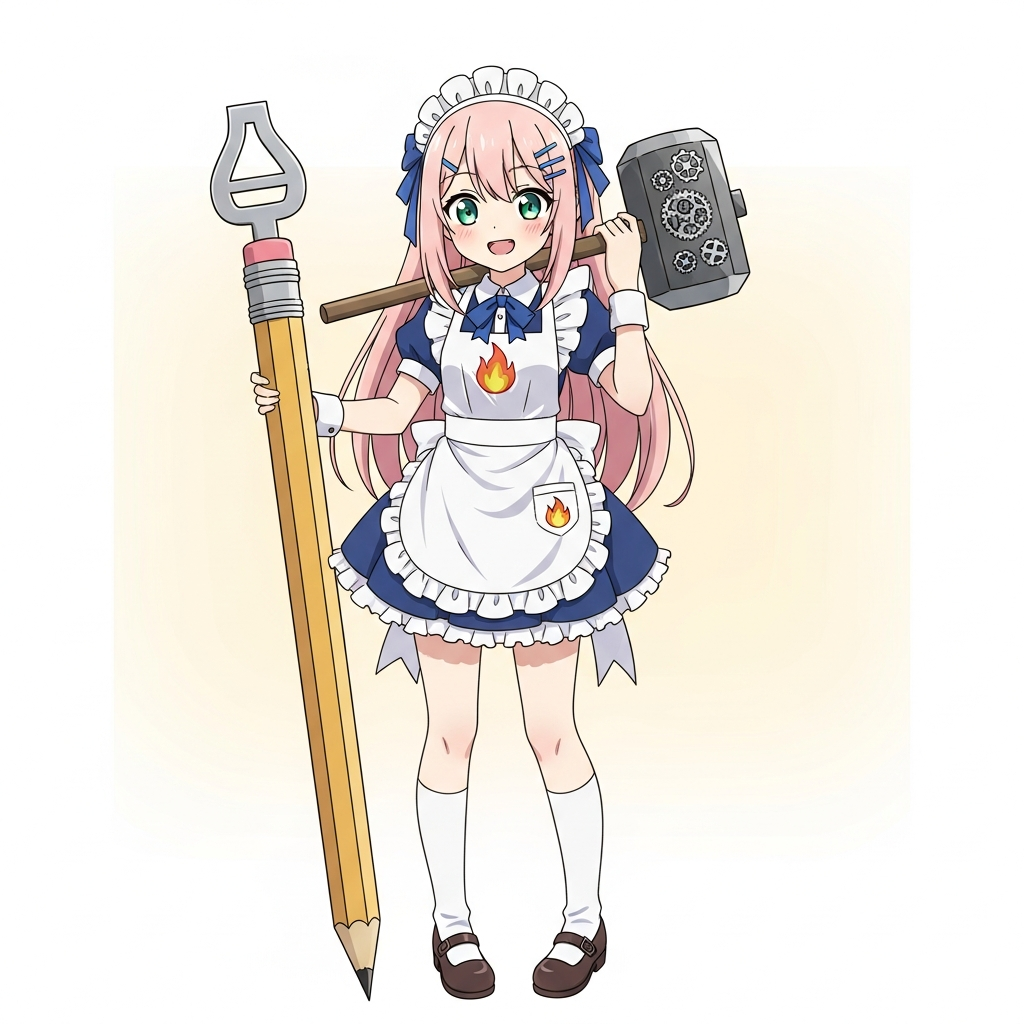
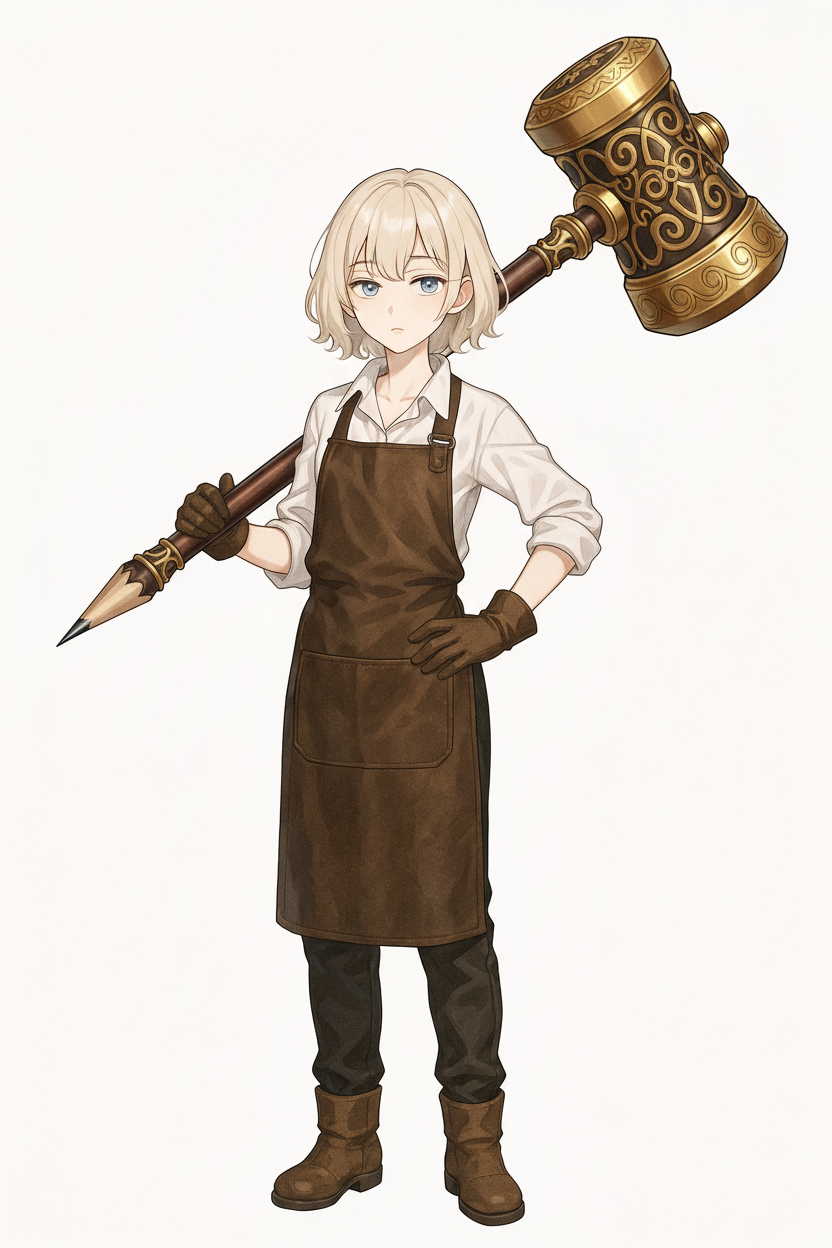
feat: 포지(Forgi) 캐릭터 리디자인 — 전체 마스코트 이미지 교체
- 메이드 → 보이시한 대장장이 소녀 (aespa 윈터 모티브)
- 포즈 6종 교체: concept, wave, writing, error, success, empty
- whiteboard 일러스트 추가 (빈 프로젝트 + 로그인)
- 얼굴 원형 아이콘 + 망치 아이콘 추가
- favicon을 ico → png로 변경 (알파 채널 호환)

diff --git a/index.html b/index.html
@@ -2,7 +2,7 @@
 <html lang="en">
   <head>
     <meta charset="UTF-8" />
-    <link rel="icon" href="/favicon.ico" />
+    <link rel="icon" type="image/png" href="/favicon.png" />
     <link rel="apple-touch-icon" href="/apple-touch-icon.png" />
     <meta name="viewport" content="width=device-width, initial-scale=1.0" />
     <title>FlowForge</title>
